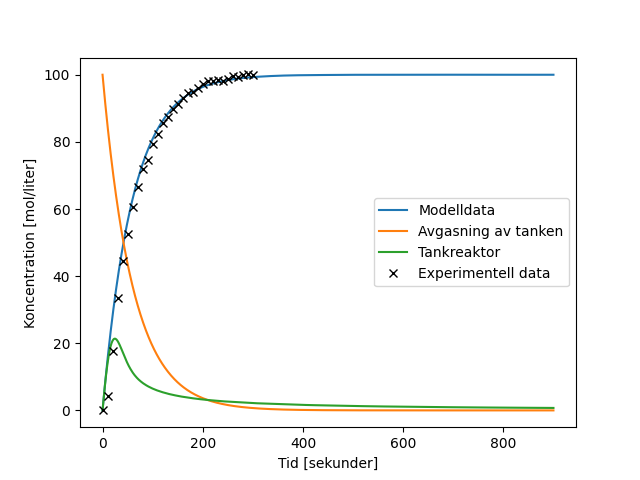
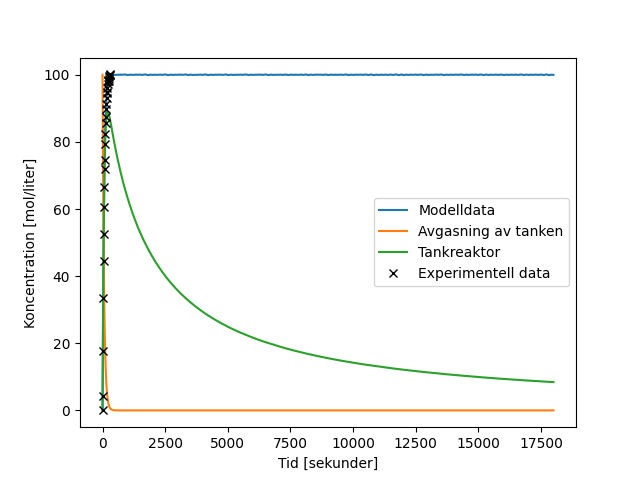
Tankreaktor korrigerad

diff --git a/PU3/PU3.py b/PU3/PU3.py
@@ -26,6 +26,15 @@ def read_CSV(fp):
         data = [data for data in reader]
         return data
 
+def timeForClosestConc(cGoal, times, concentrations):
+    bestConcDiff = np.Inf
+    bestTime = np.Inf
+    for (T,t) in zip(concentrations, times):
+        if(abs(T-cGoal)<bestConcDiff):
+            bestConcDiff = abs(T-cGoal)
+            bestTime = t
+    return bestTime
+
 def model(t, c,delta_L=0.5E-5,p_O2=p_O2,k=0):
     h=0.2
     q_g = 2E-3/60
@@ -47,13 +56,13 @@ def model(t, c,delta_L=0.5E-5,p_O2=p_O2,k=0):
     A=num_bubbles*pi*d_bubble**2
     r=k*t*c
 
-    dcdt = (A*N_a-r)/V
+    dcdt = (A*N_a)/V-r
 
     return dcdt
 
 # print(model(0,0))
 
-t_span = [0,15*60]
+t_span = [0,5*60*60]
 c0=[0]
 sol = solve_ivp(lambda t, c: model(t,c,delta_L=9E-6),t_span,c0,t_eval=np.linspace(*t_span,1000))
 plt.plot(sol.t, sol.y.T/c_max*100, label=f'Modelldata')
@@ -63,6 +72,7 @@ plt.plot(sol.t, sol.y.T/c_max*100, label=f'Avgasning av tanken')
 c0=[0]
 sol = solve_ivp(lambda t, c: model(t,c,delta_L=9E-6,k=1E-5),t_span,c0,t_eval=np.linspace(*t_span,1000))
 plt.plot(sol.t, sol.y.T/c_max*100, label=f'Tankreaktor')
+print(timeForClosestConc(10,sol.t,sol.y.T/c_max*100)/60/60,'timmar')
 
 exp_data = read_CSV('PU3_exp_data.csv')
 t, c, T = np.asarray(exp_data, dtype=np.float32).T
